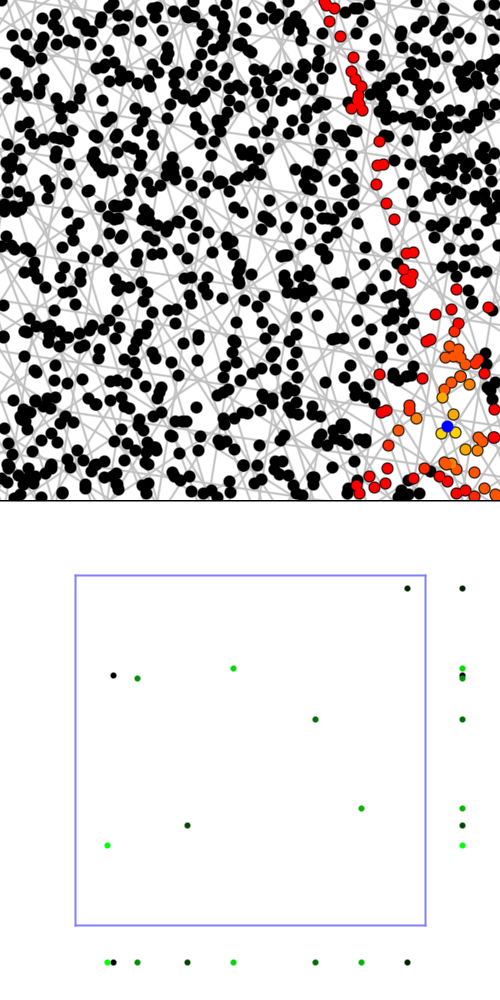
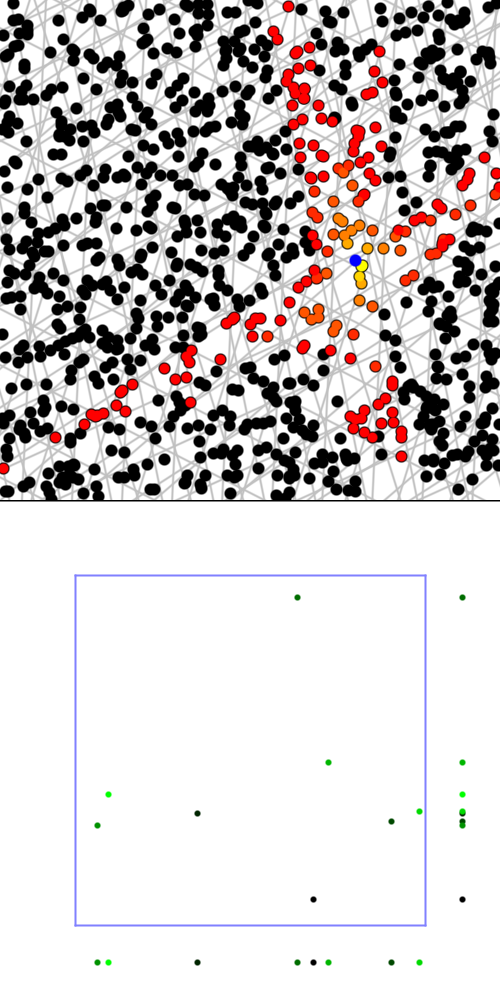
fixed uniform. made blue noise: independant, 2d.

diff --git a/main.cpp b/main.cpp
@@ -229,8 +229,6 @@ float SimilarityScore(const PointHashData& A, const PointHashData& B)
 
 void GeneratePointHashDatas_WhiteNoise(std::array<PointHashData, HASHCOUNT()>& hashDatas)
 {
-    static_assert(DIMENSION() == 2, "This function only works with 2d rotation matrices");
-
     std::uniform_real_distribution<float> dist_angle(0.0f, 2.0f * c_pi);
     std::uniform_real_distribution<float> dist_offset(0.0f, 1.0f);
 
@@ -252,58 +250,151 @@ void GeneratePointHashDatas_WhiteNoise(std::array<PointHashData, HASHCOUNT()>& h
 
 // -------------------------------------------------------------------------------
 
-void GeneratePointHashDatas_BlueNoise(std::array<PointHashData, HASHCOUNT()>& hashDatas)
+template <typename T, typename LAMBDA1, typename LAMBDA2>
+void MitchelsBestCandidateAlgorithm (std::vector<T>& results, int desiredItemCount, int candidateMultiplier, const LAMBDA2& GenerateRandomCandidate, const LAMBDA1& DifferenceScoreCalculator)
 {
-    static_assert(DIMENSION() == 2, "This function only works with 2d rotation matrices");
+    results.resize(desiredItemCount);
 
-    std::uniform_real_distribution<float> dist_angle(0.0f, 2.0f * c_pi);
-    std::uniform_real_distribution<float> dist_offset(0.0f, 1.0f);
-
-    for (int hashIndex = 0; hashIndex < HASHCOUNT(); ++hashIndex)
+    // for each item we need to fill in
+    for (int itemIndex = 0; itemIndex < desiredItemCount; ++itemIndex)
     {
-        int numCandidates = hashIndex * 10 + 1;
+        // calculate how many candidates we want to generate for this item
+        int candidateCount = itemIndex * candidateMultiplier + 1;
 
-        PointHashData bestPointHashData;
-        float bestPointHashDataScore;
+        T bestCandidate;
+        float bestCandidateMinimumDifferenceScore;
 
-        for (int candidateIndex = 0; candidateIndex < numCandidates; ++candidateIndex)
+        // for each candidate
+        for (int candidateIndex = 0; candidateIndex < candidateCount; ++candidateIndex)
         {
-            PointHashData candidatePointHashData;
+            // make a randomized candidate
+            T candidate = GenerateRandomCandidate();
+            float minimumDifferenceScore = FLT_MAX;
 
-            float angle = dist_angle(RNG());
-
-            float cosTheta = std::cosf(angle);
-            float sinTheta = std::sinf(angle);
-
-            candidatePointHashData.angle = angle;
-
-            candidatePointHashData.rotation = { cosTheta, -sinTheta,
-                                                sinTheta,  cosTheta };
-
-            // TODO: we need to find a way to weigh offset in the mix for SimilarityScore(). after that, make this work.
-            candidatePointHashData.offsetX = dist_offset(RNG());
-
-            // the score of this candidate is the most similar it is to any existing data point
-            float maxScore = 0.0f;
-            for (int dataIndex = 0; dataIndex < hashIndex; ++dataIndex)
+            // the score of this candidate is the minimum difference from all existing items
+            for (int checkItemIndex = 0; checkItemIndex < itemIndex; ++checkItemIndex)
             {
-                float score = SimilarityScore(candidatePointHashData, hashDatas[dataIndex]);
-                if (dataIndex == 0)
-                    maxScore = score;
-                else
-                    maxScore = std::max(score, maxScore);
+                float differenceScore = DifferenceScoreCalculator(candidate, results[checkItemIndex]);
+                minimumDifferenceScore = std::min(minimumDifferenceScore, differenceScore);
             }
 
-            // the best candidate will have the smallest score, meaning it's least similar to all existing data points
-            if (candidateIndex == 0 || maxScore < bestPointHashDataScore)
+            // the candidate with the largest minimum distance is the one we want to keep
+            if (candidateIndex == 0 || minimumDifferenceScore > bestCandidateMinimumDifferenceScore)
             {
-                bestPointHashData = candidatePointHashData;
-                bestPointHashDataScore = maxScore;
+                bestCandidate = candidate;
+                bestCandidateMinimumDifferenceScore = minimumDifferenceScore;
             }
         }
 
-        // keep the best candidate found
-        hashDatas[hashIndex] = bestPointHashData;
+        // keep the winning candidate
+        results[itemIndex] = bestCandidate;
+    }
+}
+
+// -------------------------------------------------------------------------------
+
+void GeneratePointHashDatas_BlueNoise_IndependantAxes(std::array<PointHashData, HASHCOUNT()>& hashDatas)
+{
+    std::uniform_real_distribution<float> dist(0.0f, 1.0f);
+
+    std::vector<float> angles, offsets;
+
+    MitchelsBestCandidateAlgorithm(
+        angles,
+        HASHCOUNT(),
+        5,
+        [&]()
+        {
+            return dist(RNG());
+        },
+        [](const float& A, const float& B)
+        {
+            float diff = fabsf(B - A);
+            if (diff > 0.5f)
+                diff = 1.0f - diff;
+            return diff;
+        }
+    );
+
+    MitchelsBestCandidateAlgorithm(
+        offsets,
+        HASHCOUNT(),
+        5,
+        [&]()
+        {
+            return dist(RNG());
+        },
+        [](const float& A, const float& B)
+        {
+            float diff = fabsf(B - A);
+            if (diff > 0.5f)
+                diff = 1.0f - diff;
+            return diff;
+        }
+    );
+
+    for (int hashIndex = 0; hashIndex < HASHCOUNT(); ++hashIndex)
+    {
+        float angle = angles[hashIndex] * c_pi;
+
+        float cosTheta = std::cosf(angle);
+        float sinTheta = std::sinf(angle);
+
+        hashDatas[hashIndex].angle = angle;
+
+        hashDatas[hashIndex].rotation = { cosTheta, -sinTheta,
+                                          sinTheta,  cosTheta };
+
+        hashDatas[hashIndex].offsetX = offsets[hashIndex];
+    }
+}
+
+// -------------------------------------------------------------------------------
+
+void GeneratePointHashDatas_BlueNoise_2D(std::array<PointHashData, HASHCOUNT()>& hashDatas)
+{
+    std::uniform_real_distribution<float> dist(0.0f, 1.0f);
+
+    std::vector<TPoint> points;
+
+    MitchelsBestCandidateAlgorithm(
+        points,
+        HASHCOUNT(),
+        5,
+        [&]()
+        {
+            TPoint ret;
+            for (int i = 0; i < DIMENSION(); ++i)
+                ret[i] = dist(RNG());
+            return ret;
+        },
+        [](const TPoint& A, const TPoint& B)
+        {
+            float distSq = 0.0f;
+            for (int i = 0; i < DIMENSION(); ++i)
+            {
+                float diff = fabsf(B[i] - A[i]);
+                if (diff > 0.5f)
+                    diff = 1.0f - diff;
+                distSq += diff * diff;
+            }
+            return distSq;
+        }
+    );
+
+    for (int hashIndex = 0; hashIndex < HASHCOUNT(); ++hashIndex)
+    {
+        float angle = points[hashIndex][0] * c_pi;
+
+        float cosTheta = std::cosf(angle);
+        float sinTheta = std::sinf(angle);
+
+        hashDatas[hashIndex].angle = angle;
+
+        hashDatas[hashIndex].rotation = { cosTheta, -sinTheta,
+                                          sinTheta,  cosTheta };
+
+        hashDatas[hashIndex].offsetX = points[hashIndex][1];
     }
 }
 
@@ -311,29 +402,18 @@ void GeneratePointHashDatas_BlueNoise(std::array<PointHashData, HASHCOUNT()>& ha
 
 void GeneratePointHashDatas_Uniform(std::array<PointHashData, HASHCOUNT()>& hashDatas)
 {
-    static_assert(DIMENSION() == 2, "This function only works with 2d rotation matrices");
-
-    // To sample evenly across the two dimensional space of angle and offset, we are going to treat it as a square
-    // of dimensions (1,1) that we need to place HASHCOUNT() points in uniformly.
-    // So, we need to calculate the number of rows and columns we'll need.
-    // The number after each square (power of 2) number of points is when a new row is going to be added.
-    // So, rows == columns == ceil(sqrt(HASHCOUNT()).
-    // This would generalize to higher dimensions, replacing sqrt with the appropriate root
-
-    // TODO: how to deal with the remainder? I guess you could choose a row or column and re-center them on that axis. is that most uniform?
-    // TODO: do we want to treat each axis equally? if not, would need to adjust the calculation somehow.
-
-    int size = int(ceilf(sqrtf(float(HASHCOUNT()))));
+    int columns = int(ceilf(sqrtf(float(HASHCOUNT()))));
+    int rows = int(ceilf(float(HASHCOUNT()) / float(columns)));
 
     for (int i = 0; i < HASHCOUNT(); ++i)
     {
         PointHashData& p = hashDatas[i];
 
-        int x = i % size;
-        int y = i / size;
+        int x = i % columns;
+        int y = i / columns;
 
-        float percentX = (float(x) + 0.5f) / float(size);
-        float percentY = (float(y) + 0.5f) / float(size);
+        float percentX = (float(x) + 0.5f) / float(columns);
+        float percentY = (float(y) + 0.5f) / float(rows);
 
         // choose an angle from 0 to 180 degrees, because angle > 180 degrees is redundant.
         float angle = percentX * c_pi;
@@ -354,8 +434,6 @@ void GeneratePointHashDatas_Uniform(std::array<PointHashData, HASHCOUNT()>& hash
 
 void GeneratePointHashDatas_GoldenRatio(std::array<PointHashData, HASHCOUNT()>& hashDatas)
 {
-    static_assert(DIMENSION() == 2, "This function only works with 2d rotation matrices");
-
     std::uniform_real_distribution<float> dist(0.0f, 1.0f);
 
     float initialValueAngle = dist(RNG());
@@ -386,8 +464,6 @@ void GeneratePointHashDatas_GoldenRatio(std::array<PointHashData, HASHCOUNT()>& 
 
 void GeneratePointHashDatas_GoldenRatioGeneralized(std::array<PointHashData, HASHCOUNT()>& hashDatas)
 {
-    static_assert(DIMENSION() == 2, "This function only works with 2d rotation matrices");
-
     std::uniform_real_distribution<float> dist(0.0f, 1.0f);
 
     float initialValue = dist(RNG());
@@ -577,8 +653,6 @@ void DrawHashBuckets(Image& image, float cellSize, const PointHashData& pointHas
 
 void ReportQueryAsImage(const LHS& lhs, const TPoint& queryPoint, const std::unordered_map<PointID, int>& results, const std::vector<TPoint>& points, const char* name)
 {
-    static_assert(DIMENSION() == 2, "This function only works with 2d points");
-
     char fileName[256];
     sprintf_s(fileName, "out/%s.png", name);
 
@@ -808,7 +882,8 @@ int main(int argc, char** argv)
 
     // add the points to the locality sensitive hashing
     LHS lhs_whiteNoise(points, GeneratePointHashDatas_WhiteNoise);
-    LHS lhs_blueNoise(points, GeneratePointHashDatas_BlueNoise);
+    LHS lhs_blueNoise_independantAxes(points, GeneratePointHashDatas_BlueNoise_IndependantAxes);
+    LHS lhs_blueNoise_2D(points, GeneratePointHashDatas_BlueNoise_2D);
     LHS lhs_uniform(points, GeneratePointHashDatas_Uniform);
     LHS lhs_goldenRatio(points, GeneratePointHashDatas_GoldenRatio);
     LHS lhs_goldenRatioGeneralized(points, GeneratePointHashDatas_GoldenRatioGeneralized);
@@ -823,7 +898,8 @@ int main(int argc, char** argv)
         printfPoint("Query Point", queryPoint);
 
         ReportQuery(lhs_whiteNoise, queryPoint, points, "whiteNoise");
-        ReportQuery(lhs_blueNoise, queryPoint, points, "blueNoise");
+        ReportQuery(lhs_blueNoise_independantAxes, queryPoint, points, "blueNoise_ia");
+        ReportQuery(lhs_blueNoise_2D, queryPoint, points, "blueNoise_2d");
         ReportQuery(lhs_uniform, queryPoint, points, "uniform");
         ReportQuery(lhs_goldenRatio, queryPoint, points, "goldenRatio");
         ReportQuery(lhs_goldenRatioGeneralized, queryPoint, points, "goldenRatioGeneralized");
@@ -838,15 +914,13 @@ int main(int argc, char** argv)
  TODO:
  * tune blue noise now that you can see it plotted.
  * 3 blue noises? 1) blue noise independant on each axis.  2) 2d blue noise. 3) projective blue noise on x and y axis. 4) ??? random axis projective blue noise?
-* uniform needs help. also i think it is incorrectly calculating how many rows it needs. set num hashes to 20 and note how it doesn't look correct.
-* make a light image class that stores pixels, width, height
- * it would be neat to make a header only library for this image class and primitive drawing, for use in other blog posts too.
-* test the offset specifically, with 1 bucket and an offset. make sure it's happy :)
 ? are the buckets too small? i think they might be... instead of having the domain thing for points, could have a bucket size scale.
 * maybe an option to color cells based on how many hash collisions they have with the query point
 * tyler's article says there is an optimal for white noise. check out what that is, and try it? maybe compare things with that optimal value?
-* make a function to save png's, so you can put your "write a transparent pixel" code in one place :p
 * there is likely a point where white noise beats out blue / LDS. find it?
+* maybe try halton or something
+* maybe try that "low discrepancy blue noise" thing?
+* check through the code. maybe delete things you don't need naymore?
 
 Tests:
 * white noise
@@ -870,6 +944,8 @@ Tests:
 
 * there was also a technique talked about
 
+* maybe do 1d integration and compare blue noise, white noise, lds?
+ * to show that blue noise has same error decay as white noise but starts lower?
 
 Links:
 - inspiration: http://unboxresearch.com/articles/lsh_post1.html   aka http://unboxresearch.com/articles/lsh_post1.html
